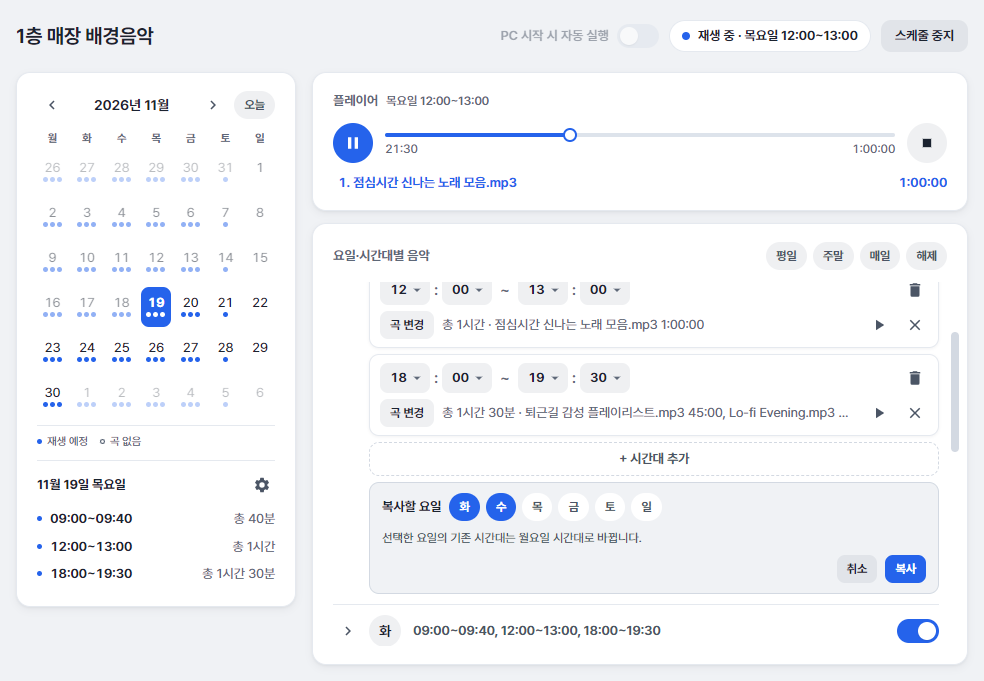
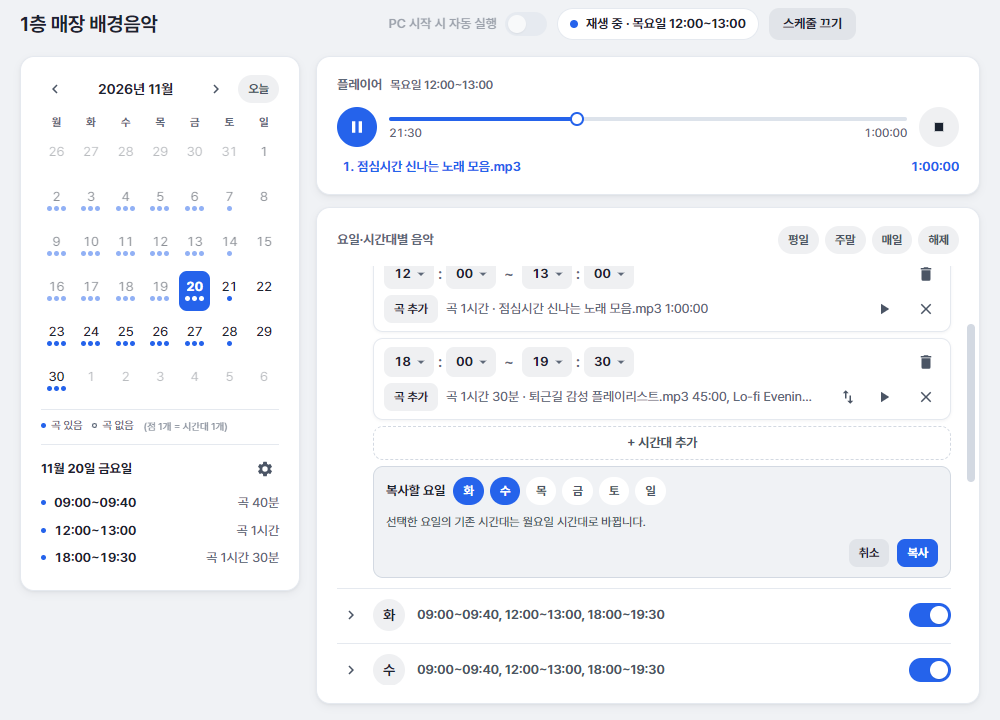
docs: README 화면 캡처와 설명을 지금 화면으로 갱신

diff --git a/README.md b/README.md
@@ -11,9 +11,10 @@
 | ![월요일 시간대를 화·수요일로 복사하는 화면](docs/screenshots/copy.png) | ![겹치는 시간으로 바꾸려 하면 막고 안내하는 화면](docs/screenshots/time-check.png) |
 | 한 요일의 시간대와 곡을 고른 요일들에 한 번에 복사합니다. 복사받은 요일은 접혀서 한 줄로 보입니다. | 다른 시간대와 겹치게 바꾸면 원래 시간으로 되돌리고 이유를 알려줍니다. |
 
-- **왼쪽 달력**: 스케줄이 잡힌 날짜에 점이 찍힙니다. 날짜를 누르면 아래에 그날의 시간대와 총 곡 시간이 나오고, 톱니바퀴로 그 요일 설정으로 이동합니다.
+- **왼쪽 달력**: 스케줄이 잡힌 날짜에 시간대 수만큼 점이 찍힙니다. 날짜를 누르면 아래에 그날의 시간대와 곡 길이가 나오고, 톱니바퀴로 그 요일 설정으로 이동합니다.
 - **플레이어**: 지금 불러온 시간대와 곡 목록, 곡별 길이를 보여줍니다.
-- **상단**: 스케줄 상태(점 색: 회색 꺼짐 · 초록 대기 · 파랑 재생 중)와 시작/중지, PC 시작 시 자동 실행 스위치가 있습니다.
+- **상단(제목 표시줄 자리)**: 타이틀, PC 시작 시 자동 실행 스위치, 스케줄 상태(점 색: 회색 꺼짐 · 초록 대기 · 파랑 재생 중), 스케줄 켜기/끄기 버튼이 있습니다. 빈 곳을 잡고 끌면 창이 움직입니다.
+- 캡처에는 앱 화면만 담겨 있어서, 실제 창의 오른쪽 위에 있는 ─ □ ✕ 버튼은 보이지 않습니다.
 
 ## 주요 기능
 
